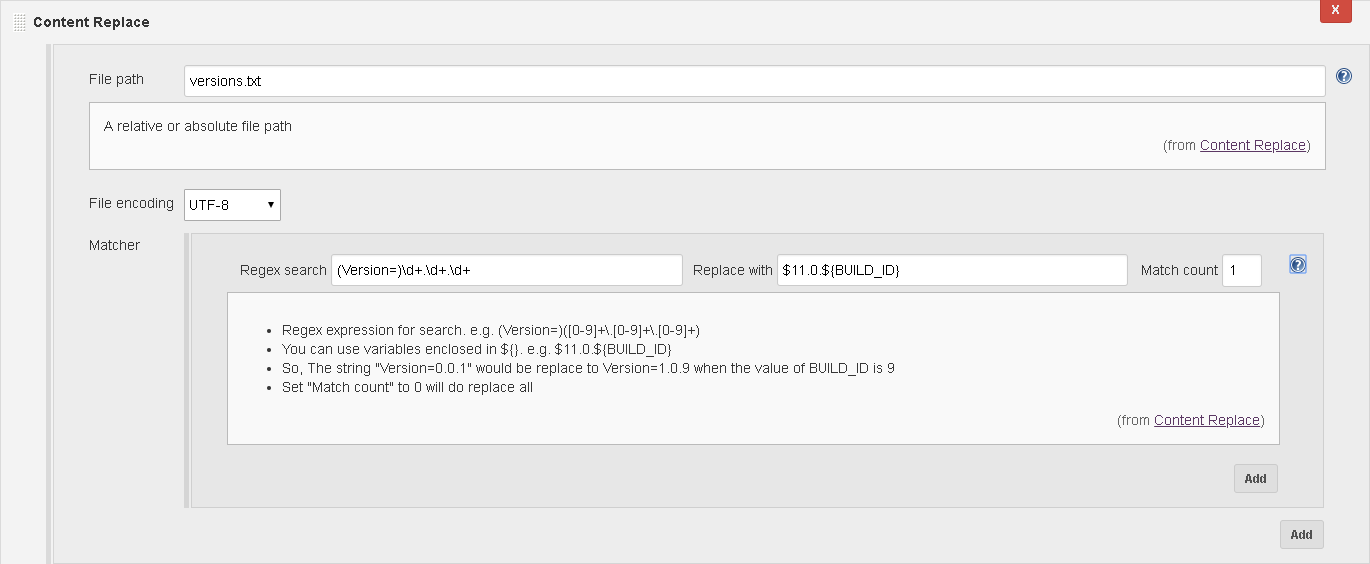
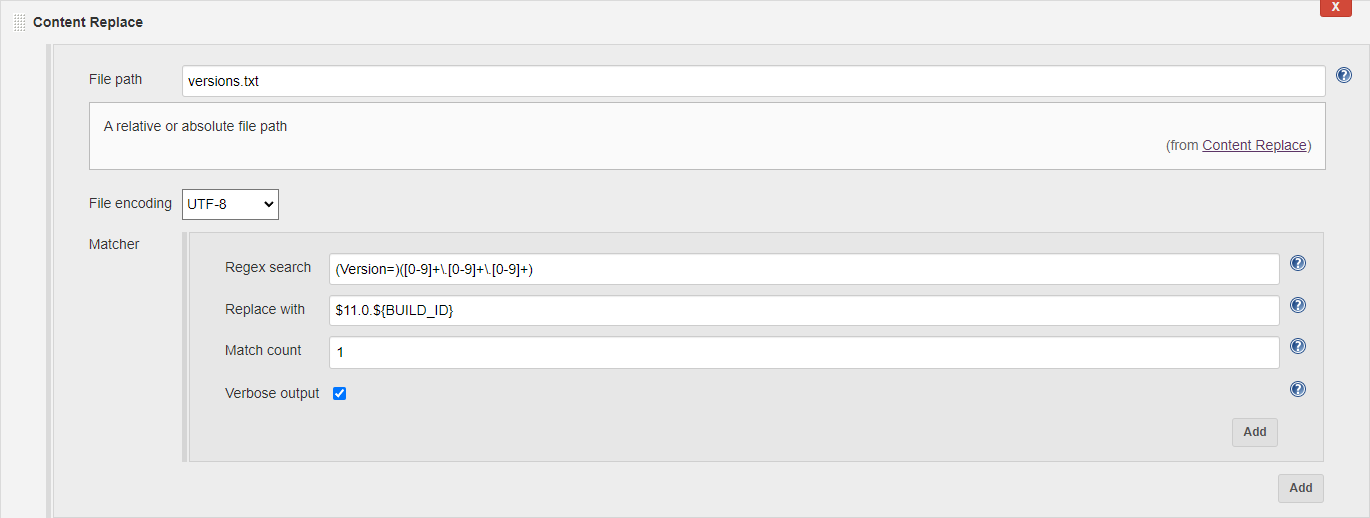
update README.md

diff --git a/README.md b/README.md
@@ -32,13 +32,29 @@ required.
 ![Freestyle](./doc/Freestyle-job-configuration.png)
 
 #### Pipeline job configuration
-
-contentReplace( configs: \[ fileContentReplaceConfig( configs: \[
-fileContentReplaceItemConfig( search: '(Version=)\\\\d+.\\\\d+.\\\\d+',
-replace: '$11.0.${BUILD\_ID}', matchCount: 1) \], fileEncoding: 'UTF-8',
-filePath: 'versions.txt') \])
+```
+contentReplace(
+  configs: [
+    fileContentReplaceConfig(
+      configs: [
+        fileContentReplaceItemConfig(
+          search: '(Version=)([0-9]+\\.[0-9]+\\.[0-9]+)',
+          replace: '$11.0.${BUILD_ID}',
+          matchCount: 1,
+          verbose: false,
+        )
+      ],
+      fileEncoding: 'UTF-8',
+       'versions.txt'
+    )
+  ]
+)
+```
 
 ## Changelog
+### Version 1.7.0 (Feb 04, 2022)
+
+-   Add, support verbose output control
 
 ### Version 1.6.0 (Dec 19, 2020)
 
